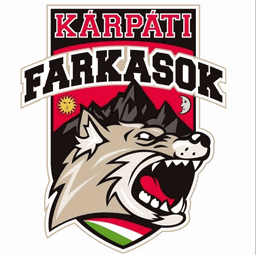
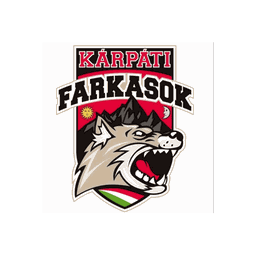
Logók: nem lógnak ki a körből, a körök kicsit nagyobbak
- A négy kézzel betett logó négyzetes, átlátszó vászonra került úgy,
  hogy a tartalmuk a körön belül maradjon (eddig a sarkaik – a DJK SE
  logójánál a két vége – levágódtak).
- A logók köre mindenhol kicsit nagyobb: tabella/menetrend 22→26 px,
  fordulók és ágrajz 20→24, meccskártya 68→76 (mobilon 52→58),
  legutóbbi eredmény 44→52. Mobilon sincs vízszintes görgetés.

Claude-Session: https://claude.ai/code/session_013bLPZ917DCNSNGAwR9edbv

diff --git a/styles.css b/styles.css
@@ -486,7 +486,7 @@ a { color: inherit; text-decoration: none; }
 /* Bajnoki pontverseny: a csapat a játékos neve alatt */
 .scorers .sc-name { display: block; }
 .scorers .sc-club { display: flex; align-items: center; gap: 6px; margin-top: 2px; font-size: 0.74rem; font-weight: 600; color: var(--muted); }
-.scorers .sc-club .team-logo, .scorers .sc-club .team-chip { width: 16px; height: 16px; font-size: 0.6rem; }
+.scorers .sc-club .team-logo, .scorers .sc-club .team-chip { width: 18px; height: 18px; font-size: 0.62rem; }
 
 /* Rájátszás-csík a csempék alatt: rájátszás idején ez az első, amit látsz */
 .po-status { display: flex; align-items: center; justify-content: space-between; gap: 16px; flex-wrap: wrap; margin: 18px 0 4px; padding: 18px 24px; border-radius: 24px; background: linear-gradient(135deg, var(--navy), #2a3670); border: 2px solid var(--gold); color: #fff; box-shadow: 0 18px 36px -20px rgba(27,36,80,0.6); }
@@ -523,10 +523,10 @@ a { color: inherit; text-decoration: none; }
 .br-t.out { color: var(--muted); }
 .br-t.us .br-name { color: var(--pink-ink); }
 .br-name { min-width: 0; line-height: 1.15; overflow-wrap: anywhere; }
-.br-logo { display: grid; place-items: center; width: 20px; height: 20px; }
-.br-logo .team-logo, .br-logo .team-chip { width: 20px; height: 20px; font-size: 0.62rem; }
+.br-logo { display: grid; place-items: center; width: 24px; height: 24px; }
+.br-logo .team-logo, .br-logo .team-chip { width: 24px; height: 24px; font-size: 0.68rem; }
 /* halott emblémalinknél (a kép eltávolítja magát) a kezdőbetű áll a helyén */
-.br-logo:empty::before { content: attr(data-init); display: grid; place-items: center; width: 20px; height: 20px; border-radius: 50%; background: var(--silver); color: var(--navy); font-size: 0.62rem; font-weight: 800; }
+.br-logo:empty::before { content: attr(data-init); display: grid; place-items: center; width: 24px; height: 24px; border-radius: 50%; background: var(--silver); color: var(--navy); font-size: 0.62rem; font-weight: 800; }
 .br-legs { margin-top: 4px; padding-top: 4px; border-top: 1px dashed var(--surface-border); font-size: 0.68rem; font-weight: 700; color: var(--muted); }
 .br-tbd { display: grid; place-items: center; min-height: 74px; border-style: dashed; background: transparent; text-align: center; font-size: 0.74rem; font-weight: 700; color: var(--muted); }
 .br-bronze { margin-top: 18px; }
@@ -583,7 +583,7 @@ a { color: inherit; text-decoration: none; }
 /* inkább tördeljük a hosszú csapatneveket, mint hogy levágjuk – egy
    „Dunaújvár…” senkinek nem mond semmit */
 .gr-name { min-width: 0; line-height: 1.2; overflow-wrap: anywhere; }
-.gr-row .team-logo { width: 20px; height: 20px; }
+.gr-row .team-logo { width: 24px; height: 24px; }
 .gr-score { font-family: "Baloo 2", sans-serif; font-weight: 800; font-size: 1rem; color: var(--text); font-variant-numeric: tabular-nums; white-space: nowrap; }
 /* még le nem játszott forduló: halkabb, hogy az eredmények vigyék a hangsúlyt */
 .gr-row.upcoming .gr-score { font-family: "Nunito", sans-serif; font-size: 0.8rem; font-weight: 800; color: var(--muted); }
@@ -605,7 +605,7 @@ a { color: inherit; text-decoration: none; }
 /* Eredményjelző: csapat – eredmény – csapat */
 .gm-title { display: grid; grid-template-columns: 1fr auto 1fr; align-items: start; gap: 12px; margin: 18px 0 4px; color: #fff; font-size: 1rem; }
 .gm-team { display: flex; flex-direction: column; align-items: center; gap: 6px; min-width: 0; }
-.gm-team-logo { width: 68px; height: 68px; border-radius: 50%; background: #fff; display: grid; place-items: center; overflow: hidden; border: 3px solid rgba(255,255,255,0.9); box-shadow: 0 0 0 4px rgba(255,255,255,0.12), 0 10px 22px -10px rgba(0,0,0,0.7); }
+.gm-team-logo { width: 76px; height: 76px; border-radius: 50%; background: #fff; display: grid; place-items: center; overflow: hidden; border: 3px solid rgba(255,255,255,0.9); box-shadow: 0 0 0 4px rgba(255,255,255,0.12), 0 10px 22px -10px rgba(0,0,0,0.7); }
 /* A közös .team-logo kis kör-stílusát itt felülírjuk: a logó kitölti a jelvényt */
 .gm-team-logo img.gm-logo { width: 100%; height: 100%; object-fit: cover; border: 0; border-radius: 0; background: none; }
 .gm-team-logo:not(:has(img))::before { content: attr(data-init); font-family: "Baloo 2", sans-serif; font-size: 1.8rem; font-weight: 800; color: var(--navy); }
@@ -645,7 +645,7 @@ a { color: inherit; text-decoration: none; }
 @media (max-width: 560px) {
   .gm-head { padding: 22px 14px 18px; }
   .gm-title { gap: 6px; margin-top: 14px; }
-  .gm-team-logo { width: 52px; height: 52px; }
+  .gm-team-logo { width: 58px; height: 58px; }
   .gm-team-name { font-size: 0.92rem; }
   .gm-score { font-size: 2.2rem; gap: 5px; }
   .gm-body { padding: 18px 14px 24px; }
@@ -747,13 +747,13 @@ a { color: inherit; text-decoration: none; }
 .team-cell { display: inline-flex; align-items: center; gap: 8px; }
 /* Telefonon a forma a csapatnév alatt jelenik meg (a külön oszlop nem férne ki) */
 .standings .team-form { display: none; }
-.team-logo { width: 22px; height: 22px; object-fit: contain; border-radius: 50%; background: #fff; border: 1px solid var(--surface-border); flex-shrink: 0; }
+.team-logo { width: 26px; height: 26px; object-fit: contain; border-radius: 50%; background: #fff; border: 1px solid var(--surface-border); flex-shrink: 0; }
 /* hosszabbításos oszlopok: halványabbak, hogy a Gy és a V maradjon a fő ritmus */
 .standings .c-ot { color: var(--muted); font-weight: 600; }
 .standings thead th.c-ot { font-size: 0.62rem; }
 .standings .c-form { padding-left: 10px; padding-right: 4px; }
 .standings tbody td.c-form { line-height: 0; }
-.team-chip { display: inline-flex; align-items: center; justify-content: center; width: 22px; height: 22px; border-radius: 50%; background: var(--surface-soft); border: 1px solid var(--surface-border); color: var(--muted); font-size: 0.7rem; font-weight: 800; vertical-align: middle; }
+.team-chip { display: inline-flex; align-items: center; justify-content: center; width: 26px; height: 26px; border-radius: 50%; background: var(--surface-soft); border: 1px solid var(--surface-border); color: var(--muted); font-size: 0.7rem; font-weight: 800; vertical-align: middle; }
 .standings .c-pts { color: var(--pink-ink); font-family: "Baloo 2", sans-serif; font-size: 1.05rem; }
 .standings tbody tr.us { background: var(--surface-soft); }
 .standings tbody tr.us .c-team { color: var(--pink-ink); }
@@ -1132,7 +1132,7 @@ a.card:hover .card-arrow { transform: translateX(4px); }
 /* mi: [név][logó] – ellenfél: [logó][név] */
 .lm-team { display: flex; flex-direction: row-reverse; align-items: center; gap: 10px; font-family: "Baloo 2", sans-serif; font-weight: 700; font-size: 1.05rem; color: var(--text); line-height: 1.15; text-align: right; min-width: 0; }
 .lm-team.is-them { flex-direction: row; text-align: left; }
-.lm-logo { width: 44px; height: 44px; flex: 0 0 auto; border-radius: 50%; object-fit: contain; background: #fff; border: 2px solid var(--surface-border); }
+.lm-logo { width: 52px; height: 52px; flex: 0 0 auto; border-radius: 50%; object-fit: contain; background: #fff; border: 2px solid var(--surface-border); }
 .lm-score { display: flex; align-items: baseline; gap: 6px; font-family: "Baloo 2", sans-serif; font-weight: 800; font-size: 2.4rem; line-height: 1; color: var(--text); font-variant-numeric: tabular-nums; position: relative; }
 .lm-score i { font-style: normal; color: var(--muted); font-size: 1.6rem; }
 .lm-score small { position: absolute; left: 50%; top: 100%; transform: translateX(-50%); font-size: 0.66rem; font-weight: 800; letter-spacing: 0.06em; text-transform: uppercase; color: var(--muted); }

diff --git a/assets/csapatok/README.md b/assets/csapatok/README.md
@@ -8,5 +8,9 @@ képet. A fájl neve a csapat neve ékezetek nélkül, kisbetűvel, kötőjelekk
 például `Kárpáti Farkasok` → `karpati-farkasok.png` (png, jpg, webp vagy svg).
 A következő frissítéstől ez a kép látszik az oldalon.
 
+A logók az oldalon kör alakú keretben jelennek meg. Ezért a kép legyen
+négyzetes, átlátszó hátterű, és a tartalma férjen bele a négyzetbe írt
+körbe – különben a sarkai (széles logónál a két vége) levágódnak.
+
 Ha az MJSZ-nél lecserélték egy csapat logóját, töröld innen a régit, és a
 következő frissítés letölti az újat.
